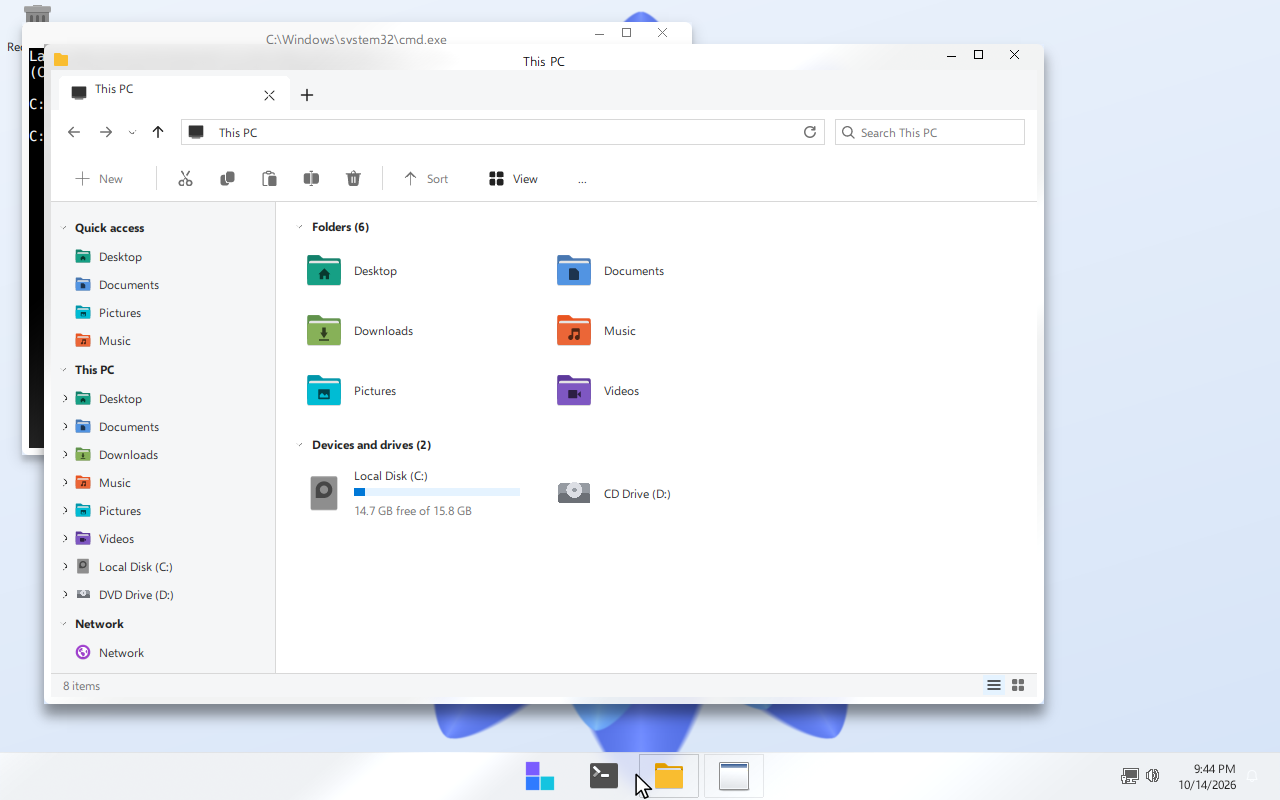
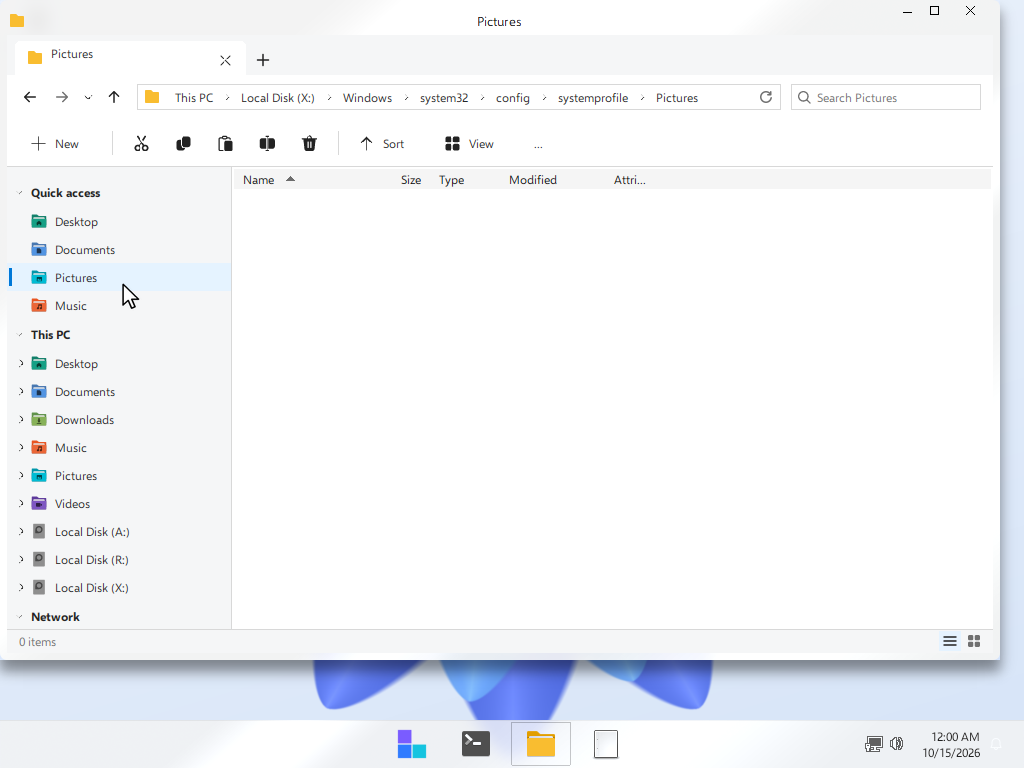
[THEME] Light system colors and list header; explorer content is light; tabs fix

diff --git a/dll/win32/shell32/CDefView.cpp b/dll/win32/shell32/CDefView.cpp
@@ -865,9 +865,13 @@ static bool IsHighContrastEnabled()
 
 bool CDefView::LoadExplorerContentMaterial()
 {
-    return DwmSettingsLoadSchemeMaterial(DwmSettingsReadColorScheme(),
-                                         &m_ExplorerMaterialBack,
-                                         &m_ExplorerMaterialOpacity);
+    const DWORD Scheme = DwmSettingsReadColorScheme();
+    const bool Loaded = DwmSettingsLoadSchemeMaterial(Scheme,
+                                                      &m_ExplorerMaterialBack,
+                                                      &m_ExplorerMaterialOpacity);
+    if (Loaded && Scheme == DWM_COLOR_SCHEME_LIGHT)
+        m_ExplorerMaterialOpacity = 255;
+    return Loaded;
 }
 
 void CDefView::ClearExplorerContentBackdrop(bool RestoreNonClient)

diff --git a/dll/directx/d3d9/d3d9_basetexture.h b/dll/directx/d3d9/d3d9_basetexture.h
@@ -1,6 +1,6 @@
 /*
  * COPYRIGHT:       See COPYING in the top level directory
- * PROJECT:         ReactOS ReactX
+ * PROJECT:         ReactOS DirectX
  * FILE:            dll/directx/d3d9/d3d9_basetexture.h
  * PURPOSE:         Work-around for gcc warning, DO NOT USE FOR ANYTHING ELSE!!!
  * PROGRAMERS:      Gregor Gullwi <gbrunmar (dot) ros (at) gmail (dot) com>

diff --git a/dll/directx/d3d9/d3d9_caps.h b/dll/directx/d3d9/d3d9_caps.h
@@ -1,6 +1,6 @@
 /*
  * COPYRIGHT:       See COPYING in the top level directory
- * PROJECT:         ReactOS ReactX
+ * PROJECT:         ReactOS DirectX
  * FILE:            dll/directx/d3d9/d3d9_caps.h
  * PURPOSE:         d3d9.dll device/driver caps functions, defines and macros
  * PROGRAMERS:      Gregor Brunmar <gregor (dot) brunmar (at) home (dot) se>

diff --git a/dll/directx/d3d9/d3d9_common.h b/dll/directx/d3d9/d3d9_common.h
@@ -1,6 +1,6 @@
 /*
  * COPYRIGHT:       See COPYING in the top level directory
- * PROJECT:         ReactOS ReactX
+ * PROJECT:         ReactOS DirectX
  * FILE:            dll/directx/d3d9/d3d9_common.h
  * PURPOSE:         d3d9.dll common functions, defines and macros
  * PROGRAMERS:      Gregor Brunmar <gregor (dot) brunmar (at) home (dot) se>

diff --git a/dll/directx/d3d9/d3d9_callbacks.h b/dll/directx/d3d9/d3d9_callbacks.h
@@ -1,6 +1,6 @@
 /*
  * COPYRIGHT:       See COPYING in the top level directory
- * PROJECT:         ReactOS ReactX
+ * PROJECT:         ReactOS DirectX
  * FILE:            dll/directx/d3d9/d3d9_callbacks.h
  * PURPOSE:         Direct3D9's callback structs and constants
  * PROGRAMERS:      Gregor Gullwi <gbrunmar (dot) ros (at) gmail (dot) com>

diff --git a/dll/directx/d3d9/d3d9_texture.h b/dll/directx/d3d9/d3d9_texture.h
@@ -1,6 +1,6 @@
 /*
  * COPYRIGHT:       See COPYING in the top level directory
- * PROJECT:         ReactOS ReactX
+ * PROJECT:         ReactOS DirectX
  * FILE:            dll/directx/d3d9/d3d9_texture.h
  * PURPOSE:         d3d9.dll internal texture surface structures
  * PROGRAMERS:      Gregor Gullwi <gbrunmar (dot) ros (at) gmail (dot) com>

diff --git a/dll/directx/d3d9/d3d9_create.c b/dll/directx/d3d9/d3d9_create.c
@@ -1,6 +1,6 @@
 /*
  * COPYRIGHT:       See COPYING in the top level directory
- * PROJECT:         ReactOS ReactX
+ * PROJECT:         ReactOS DirectX
  * FILE:            dll/directx/d3d9/d3d9_create.c
  * PURPOSE:         d3d9.dll internal create functions and data
  * PROGRAMERS:      Gregor Brunmar <gregor (dot) brunmar (at) home (dot) se>

diff --git a/dll/directx/d3d9/d3d9_create.h b/dll/directx/d3d9/d3d9_create.h
@@ -1,6 +1,6 @@
 /*
  * COPYRIGHT:       See COPYING in the top level directory
- * PROJECT:         ReactOS ReactX
+ * PROJECT:         ReactOS DirectX
  * FILE:            dll/directx/d3d9/d3d9_create.h
  * PURPOSE:         d3d9.dll internal create functions and data
  * PROGRAMERS:      Gregor Brunmar <gregor (dot) brunmar (at) home (dot) se>

diff --git a/dll/directx/d3d9/d3d9_mipmap.h b/dll/directx/d3d9/d3d9_mipmap.h
@@ -1,6 +1,6 @@
 /*
  * COPYRIGHT:       See COPYING in the top level directory
- * PROJECT:         ReactOS ReactX
+ * PROJECT:         ReactOS DirectX
  * FILE:            dll/directx/d3d9/d3d9_mipmap.h
  * PURPOSE:         d3d9.dll internal mip map surface structures
  * PROGRAMERS:      Gregor Gullwi <gbrunmar (dot) ros (at) gmail (dot) com>

diff --git a/dll/directx/d3d9/d3d9_texture.c b/dll/directx/d3d9/d3d9_texture.c
@@ -1,6 +1,6 @@
 /*
  * COPYRIGHT:       See COPYING in the top level directory
- * PROJECT:         ReactOS ReactX
+ * PROJECT:         ReactOS DirectX
  * FILE:            dll/directx/d3d9/d3d9_texture.c
  * PURPOSE:         d3d9.dll internal texture surface functions
  * PROGRAMERS:      Gregor Gullwi <gbrunmar (dot) ros (at) gmail (dot) com>

diff --git a/dll/directx/d3d9/d3d9_mipmap.c b/dll/directx/d3d9/d3d9_mipmap.c
@@ -1,6 +1,6 @@
 /*
  * COPYRIGHT:       See COPYING in the top level directory
- * PROJECT:         ReactOS ReactX
+ * PROJECT:         ReactOS DirectX
  * FILE:            dll/directx/d3d9/d3d9_mipmap.c
  * PURPOSE:         d3d9.dll internal mip map surface functions
  * PROGRAMERS:      Gregor Gullwi <gbrunmar (dot) ros (at) gmail (dot) com>

diff --git a/dll/directx/d3d9/d3d9_haldevice.h b/dll/directx/d3d9/d3d9_haldevice.h
@@ -1,6 +1,6 @@
 /*
  * COPYRIGHT:       See COPYING in the top level directory
- * PROJECT:         ReactOS ReactX
+ * PROJECT:         ReactOS DirectX
  * FILE:            dll/directx/d3d9/d3d9_haldevice.h
  * PURPOSE:         d3d9.dll internal HAL device structures
  * PROGRAMERS:      Gregor Gullwi <gbrunmar (dot) ros (at) gmail (dot) com>
